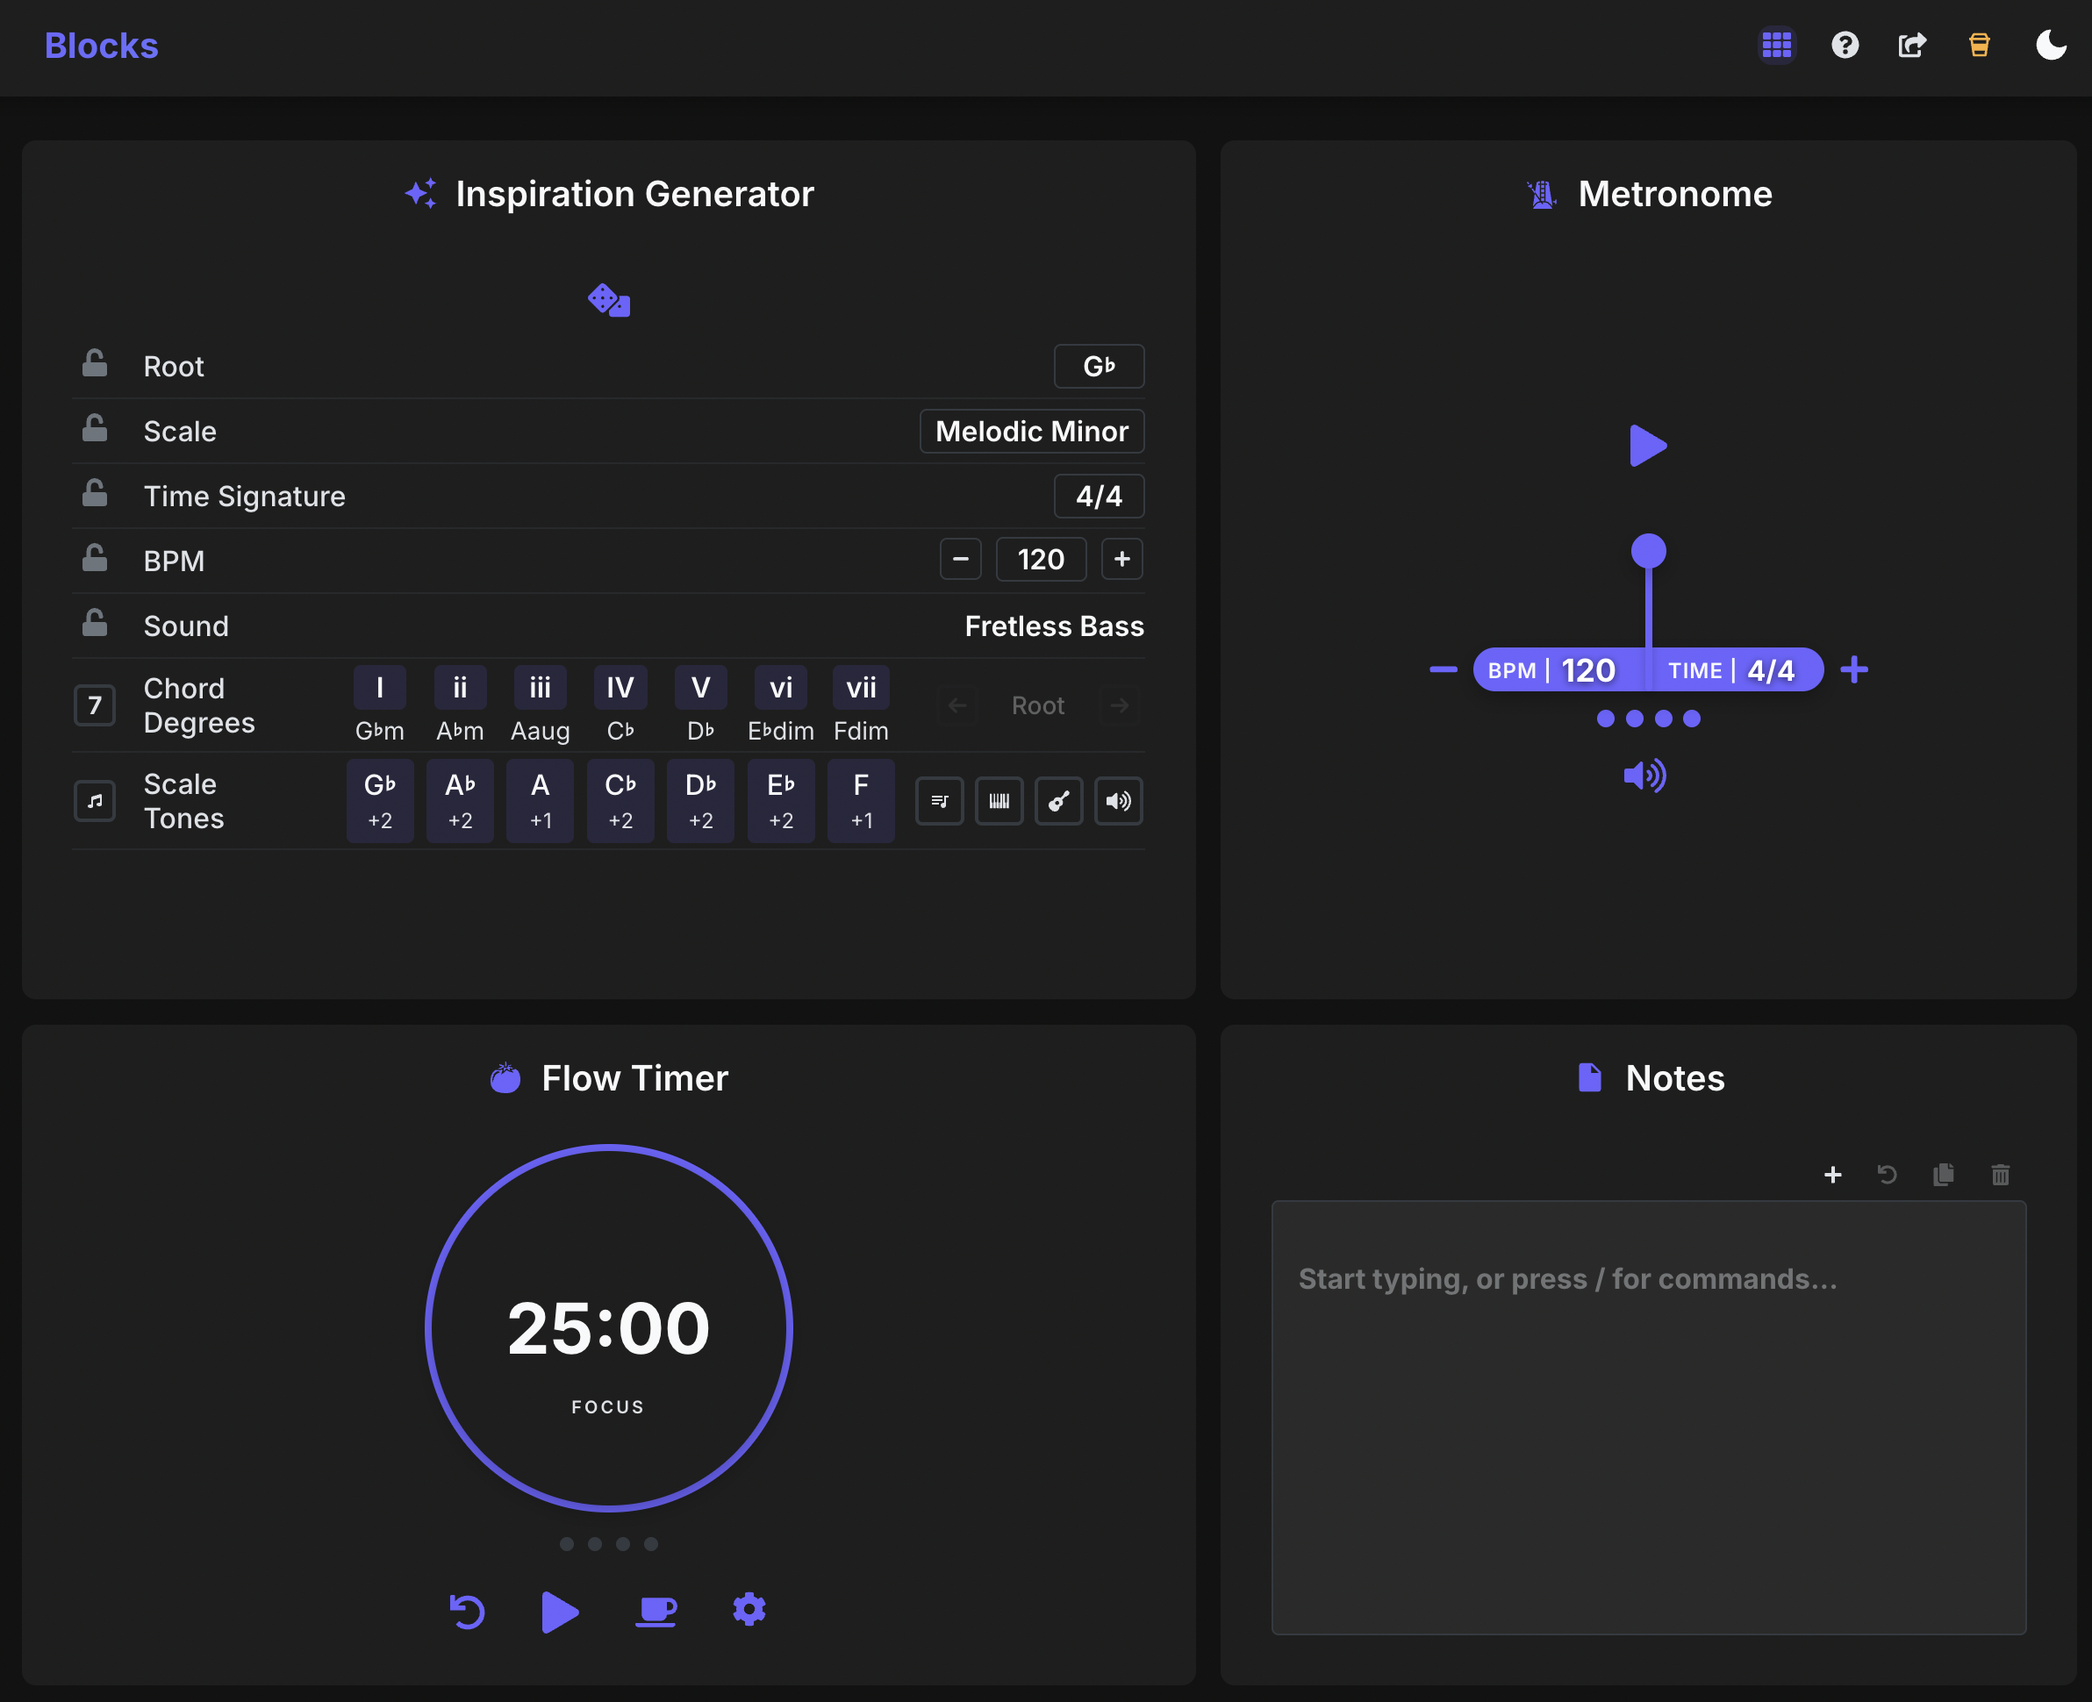
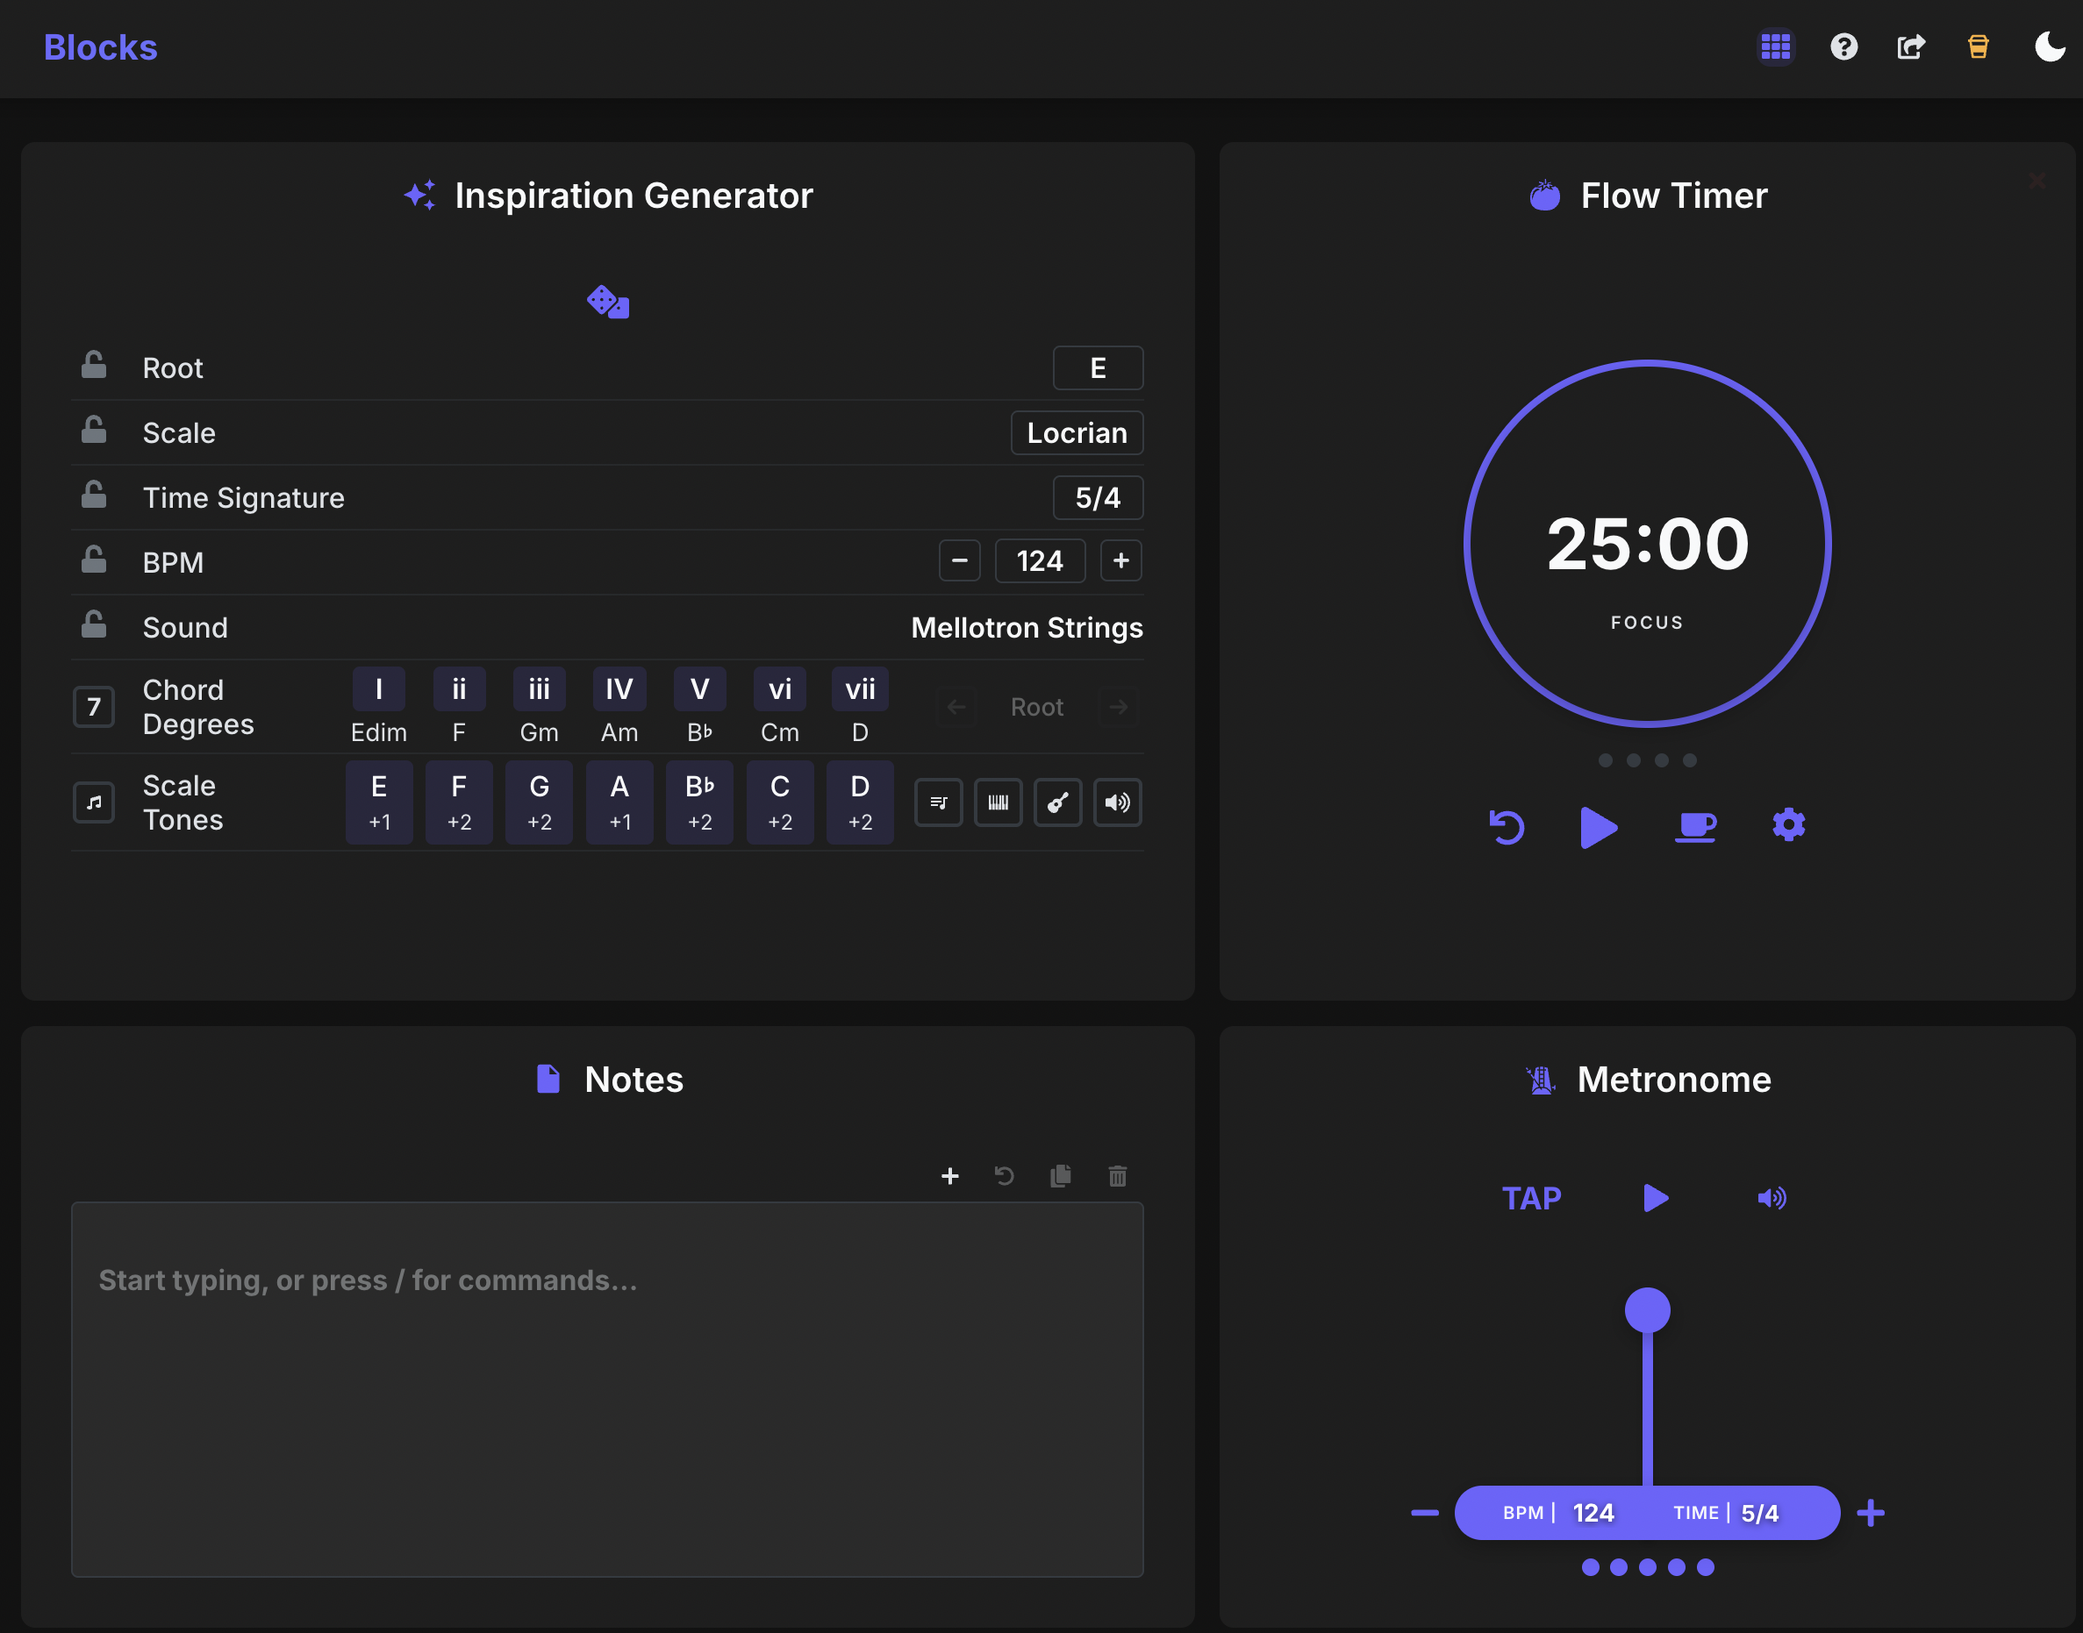
Metronome: tap tempo, larger pendulum, top action bar, updated tips
- Add tap tempo button with 1s auto-reset and avg interval BPM calculation
- Move controls to top action bar: TAP / PLAY / SETTINGS (speaker icon)
- Enlarge pendulum arm and pivot for more substantial visual presence
- Pendulum renders behind the base, text vertically centered in base
- Fix font sizes to prevent overflow in indie theme (VT323)
- Update tips modal with tap tempo and sound settings instructions
- Update screenshots

diff --git a/src/components/Metronome/Metronome.tsx b/src/components/Metronome/Metronome.tsx
@@ -3,7 +3,7 @@ import styled, { useTheme } from 'styled-components';
 import { ThemeName } from '../../theme/ThemeProvider';
 import { useSoundSettings } from '../../context/SoundSettingsContext';
 import { motion } from 'framer-motion';
-import { FaVolumeMute, FaVolumeUp, FaVolumeDown, FaVolumeOff, FaPlay, FaPause, FaPlus, FaMinus, FaBug } from 'react-icons/fa';
+import { FaPlay, FaPause, FaPlus, FaMinus, FaBug, FaVolumeMute, FaVolumeOff, FaVolumeDown, FaVolumeUp } from 'react-icons/fa';
 import { GiMetronome } from 'react-icons/gi';
 import { Icon } from '../../utils/IconHelper';
 import ToolCardDnd from '../common/ToolCardDnd';
@@ -36,7 +36,7 @@ interface LoaderProps {
 const MetronomeDisplay = styled.div`
   width: 100%;
   position: relative;
-  height: 120px;
+  height: 180px;
   margin-bottom: ${({ theme }) => theme.spacing.xs};
   display: flex;
   align-items: flex-end;
@@ -44,23 +44,24 @@ const MetronomeDisplay = styled.div`
 `;
 
 const MetronomePendulum = styled(motion.div)<{ $useGradient?: boolean }>`
-  width: 4px;
-  height: 90px;
+  width: 6px;
+  height: 144px;
   background: ${({ theme, $useGradient }) => $useGradient ? theme.colors.accentGradient : theme.colors.primary};
   position: relative;
+  z-index: 0;
   border-radius: ${({ theme }) => theme.borderRadius.small};
   transform-origin: bottom center;
   box-shadow: ${({ theme }) => theme.shadows.small};
   cursor: pointer;
-  
+
   &::after {
     content: '';
     position: absolute;
     top: 0;
     left: 50%;
     transform: translateX(-50%);
-    width: 20px;
-    height: 20px;
+    width: 26px;
+    height: 26px;
     background: ${({ theme }) => theme.colors.primary};
     border-radius: 50%;
     box-shadow: ${({ theme }) => theme.shadows.medium};
@@ -68,28 +69,30 @@ const MetronomePendulum = styled(motion.div)<{ $useGradient?: boolean }>`
 `;
 
 const MetronomeBase = styled(motion.div)<{ $useGradient?: boolean }>`
-  width: 200px;
-  height: 25px;
+  width: 220px;
+  height: 31px;
   background: ${({ theme, $useGradient }) => $useGradient ? theme.colors.accentGradient : theme.colors.primary};
   border-radius: ${({ theme }) => theme.borderRadius.large};
   position: absolute;
   bottom: 0;
+  z-index: 1;
   box-shadow: ${({ theme }) => theme.shadows.medium};
   cursor: pointer;
 `;
 
 const DialDisplay = styled.div`
   position: absolute;
-  bottom: 12px;
+  bottom: 0;
   left: 50%;
-  transform: translate(-52%, 50%);
+  transform: translateX(-52%);
+  height: 31px;
   z-index: 2;
   display: flex;
   align-items: center;
   gap: 0;
 
   .bpm-input {
-    font-size: ${({ theme }) => theme.fontSizes.lg};
+    font-size: 14px;
     font-weight: 700;
     color: #fff;
     background: transparent;
@@ -101,11 +104,10 @@ const DialDisplay = styled.div`
     cursor: pointer;
     width: 36px;
     margin-right: 25px;
-    // margin-left: 1px;
   }
 
   .dial-label {
-    font-size: ${({ theme }) => theme.fontSizes.xs};
+    font-size: 10px;
     font-weight: 600;
     color: ${({ theme }) => theme.colors.text};
     text-transform: uppercase;
@@ -115,7 +117,7 @@ const DialDisplay = styled.div`
   }
 
   .ts-button {
-    font-size: ${({ theme }) => theme.fontSizes.md};
+    font-size: 13px;
     font-weight: 700;
     color: #fff;
     background: transparent;
@@ -221,12 +223,42 @@ const BpmControls = styled.div`
   bottom: 0;
   left: 50%;
   transform: translateX(-50%);
-  height: 25px;
+  height: 31px;
   display: flex;
   align-items: center;
   justify-content: center;
-  gap: 200px;
+  gap: 220px;
   z-index: 1;
+`;
+
+const BottomActionBar = styled.div`
+  display: flex;
+  align-items: center;
+  justify-content: center;
+  width: 100%;
+  margin-top: ${({ theme }) => theme.spacing.sm};
+  gap: ${({ theme }) => theme.spacing.sm};
+`;
+
+const ActionButton = styled(motion.button)`
+  background: transparent;
+  border: none;
+  color: ${({ theme }) => theme.colors.primary};
+  cursor: pointer;
+  display: flex;
+  align-items: center;
+  justify-content: center;
+  font-size: calc(${({ theme }) => theme.fontSizes.md} * 1.1);
+  font-weight: 700;
+  padding: calc(${({ theme }) => theme.spacing.xs} * 1.1) calc(${({ theme }) => theme.spacing.md} * 1.1);
+  border-radius: ${({ theme }) => theme.borderRadius.medium};
+  transition: color ${({ theme }) => theme.transitions.fast};
+  min-width: 57px;
+  gap: ${({ theme }) => theme.spacing.xs};
+
+  &:hover {
+    color: ${({ theme }) => theme.colors.secondary};
+  }
 `;
 
 const IconWrapper = styled.span`
@@ -607,6 +639,8 @@ const Metronome: FC<LoaderProps> = ({
     const [showSoundDropdown, setShowSoundDropdown] = useState(false);
     const tsDropdownRef = useRef<HTMLDivElement>(null);
     const soundDropdownRef = useRef<HTMLDivElement>(null);
+    const tapTimesRef = useRef<number[]>([]);
+    const tapResetTimerRef = useRef<NodeJS.Timeout | null>(null);
 
     // Derive beats array and accent pattern from current time signature
     const tsConfig = TIME_SIGNATURES[timeSignature] || TIME_SIGNATURES['4/4'];
@@ -669,6 +703,10 @@ const Metronome: FC<LoaderProps> = ({
             if (ignoreTimeoutRef.current !== null) {
                 clearTimeout(ignoreTimeoutRef.current);
                 ignoreTimeoutRef.current = null;
+            }
+            if (tapResetTimerRef.current !== null) {
+                clearTimeout(tapResetTimerRef.current);
+                tapResetTimerRef.current = null;
             }
             
             // Clean up metronome
@@ -882,6 +920,54 @@ const Metronome: FC<LoaderProps> = ({
         setMetronomePlaying(!metronomePlaying);
     };
     
+    const handleTapTempo = () => {
+        const now = performance.now();
+
+        // Clear previous auto-reset timer
+        if (tapResetTimerRef.current) {
+            clearTimeout(tapResetTimerRef.current);
+        }
+
+        // Schedule auto-reset after 1 second of inactivity
+        tapResetTimerRef.current = setTimeout(() => {
+            tapTimesRef.current = [];
+            tapResetTimerRef.current = null;
+        }, 1000);
+
+        tapTimesRef.current.push(now);
+
+        // Keep only last 8 taps
+        if (tapTimesRef.current.length > 8) {
+            tapTimesRef.current = tapTimesRef.current.slice(-8);
+        }
+
+        const currentTaps = tapTimesRef.current;
+        if (currentTaps.length >= 2) {
+            // Calculate average interval across consecutive taps
+            const intervals: number[] = [];
+            for (let i = 1; i < currentTaps.length; i++) {
+                intervals.push(currentTaps[i] - currentTaps[i - 1]);
+            }
+            const avgInterval = intervals.reduce((a, b) => a + b, 0) / intervals.length;
+            const tapBpm = Math.round(60000 / avgInterval);
+            const clampedBpm = Math.max(40, Math.min(300, tapBpm));
+
+            debugLog(`Tap tempo: ${clampedBpm} BPM (from ${currentTaps.length} taps)`);
+
+            // Update local BPM only — do NOT sync back to Inspiration Generator
+            ignoreExternalUpdatesRef.current = true;
+            setBpm(clampedBpm);
+
+            if (ignoreTimeoutRef.current) {
+                clearTimeout(ignoreTimeoutRef.current);
+            }
+            ignoreTimeoutRef.current = setTimeout(() => {
+                ignoreExternalUpdatesRef.current = false;
+                ignoreTimeoutRef.current = null;
+            }, 500);
+        }
+    };
+
     const toggleDebug = () => {
         setShowDebug(!showDebug);
     };
@@ -923,7 +1009,6 @@ const Metronome: FC<LoaderProps> = ({
         };
     }, [showSoundDropdown]);
 
-    // Helper: get volume icon based on current volume level
     const getVolumeIcon = () => {
         if (metronomeVolume === 0 || muteSound) return FaVolumeMute;
         if (metronomeVolume < 0.33) return FaVolumeOff;
@@ -958,16 +1043,51 @@ const Metronome: FC<LoaderProps> = ({
                 </DebugOverlay>
             )}
             
-            <PlayPauseButton
-                onClick={toggleMetronome}
-                whileHover={{ scale: 1.2 }}
-                whileTap={{ scale: 0.9 }}
-                aria-label={metronomePlaying ? "Pause metronome" : "Play metronome"}
-            >
-                <IconWrapper>
-                    {metronomePlaying ? <Icon icon={FaPause} size={24} /> : <Icon icon={FaPlay} size={24} />}
-                </IconWrapper>
-            </PlayPauseButton>
+            <BottomActionBar>
+                <ActionButton
+                    onClick={handleTapTempo}
+                    whileHover={{ scale: 1.05 }}
+                    whileTap={{ scale: 0.9 }}
+                    aria-label="Tap tempo"
+                    title="Tap tempo"
+                >
+                    TAP
+                </ActionButton>
+
+                <ActionButton
+                    onClick={toggleMetronome}
+                    whileHover={{ scale: 1.05 }}
+                    whileTap={{ scale: 0.9 }}
+                    aria-label={metronomePlaying ? "Stop metronome" : "Play metronome"}
+                    title={metronomePlaying ? "Stop" : "Play"}
+                >
+                    <IconWrapper>
+                        {metronomePlaying ? <Icon icon={FaPause} size={16} /> : <Icon icon={FaPlay} size={16} />}
+                    </IconWrapper>
+                </ActionButton>
+
+                <div ref={soundDropdownRef} style={{ position: 'relative' }}>
+                    <ActionButton
+                        onClick={() => setShowSoundDropdown(!showSoundDropdown)}
+                        whileHover={{ scale: 1.05 }}
+                        whileTap={{ scale: 0.9 }}
+                        aria-label="Sound settings"
+                        title="Sound settings"
+                    >
+                        <IconWrapper>
+                            <Icon icon={getVolumeIcon()} size={16} />
+                        </IconWrapper>
+                    </ActionButton>
+                    <SoundDropdownPanel
+                        isOpen={showSoundDropdown}
+                        themeOverride={metronomeThemeOverride}
+                        setThemeOverride={setMetronomeThemeOverride}
+                        volume={metronomeVolume}
+                        setVolume={setMetronomeVolume}
+                        style={{ top: 'calc(100% + 8px)', left: '50%', transform: 'translateX(-50%)' }}
+                    />
+                </div>
+            </BottomActionBar>
 
             <MetronomeDisplay>
                 <DialDisplay>
@@ -1073,29 +1193,6 @@ const Metronome: FC<LoaderProps> = ({
                 ))}
             </BeatsRow>
 
-            <ControlsContainer>
-                <div ref={soundDropdownRef} style={{ position: 'relative' }}>
-                    <ControlButton
-                        onClick={() => setShowSoundDropdown(!showSoundDropdown)}
-                        whileHover={{ scale: 1.2 }}
-                        whileTap={{ scale: 0.9 }}
-                        aria-label="Sound settings"
-                        title="Sound settings"
-                    >
-                        <IconWrapper style={{ width: 28, justifyContent: 'flex-start' }}>
-                            <Icon icon={getVolumeIcon()} size={24} />
-                        </IconWrapper>
-                    </ControlButton>
-                    <SoundDropdownPanel
-                        isOpen={showSoundDropdown}
-                        themeOverride={metronomeThemeOverride}
-                        setThemeOverride={setMetronomeThemeOverride}
-                        volume={metronomeVolume}
-                        setVolume={setMetronomeVolume}
-                        style={{ top: 'calc(100% + 8px)', left: '50%', transform: 'translateX(-50%)' }}
-                    />
-                </div>
-            </ControlsContainer>
             <TipsModal
                 isOpen={showTips}
                 onClose={() => setShowTips(false)}
@@ -1109,10 +1206,16 @@ const Metronome: FC<LoaderProps> = ({
                             Use the + and – controls to adjust BPM, or click directly on the BPM input field to change the tempo.
                         </p>
                         <p>
+                            Tap the TAP button rhythmically to set the tempo by feel — BPM is calculated from your tap intervals.
+                        </p>
+                        <p>
                             Click the time signature on the dial to change it. Supported: {TIME_SIGNATURE_OPTIONS.join(', ')}.
                         </p>
                         <p>
                             The beat dots reflect the current time signature, with accented beats highlighted.
+                        </p>
+                        <p>
+                            Use the speaker icon to choose from different metronome sounds and adjust the overall volume.
                         </p>
                     </>
                 }
